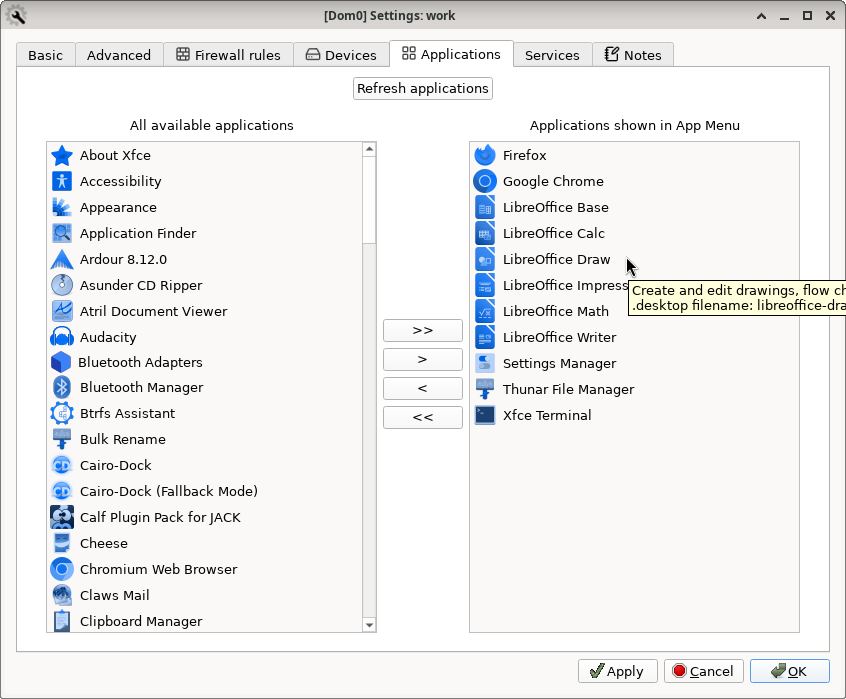
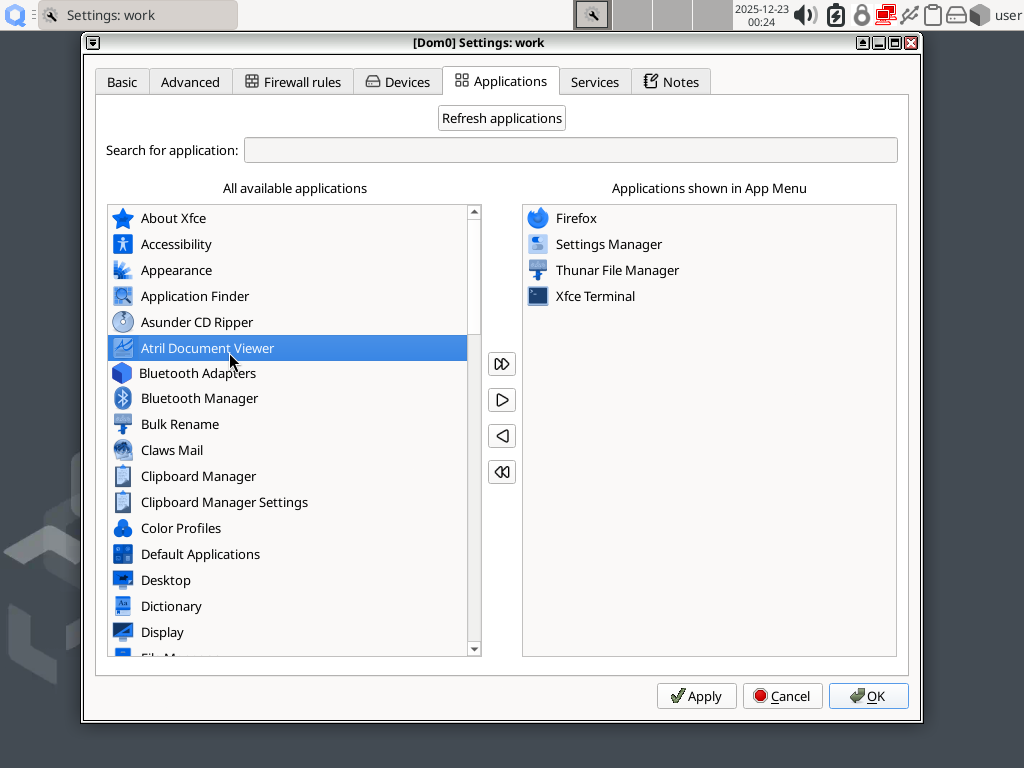
Expand content of R4.3 release notes
* Mention that Template manager GUI has been improved
* Mention the search bar of "Application" tab in qube Settings
* Fix list indentation
* Fix link to QubesOS/qubes-issues#6776 (thanks to @alimirjamali)
* All images are now clickable
* Add or update screenshots to the latest 4.3 version. This allows
  comparison between 4.2 & 4.3 too.
* Add some links to new features or QWT
* Use some `:program:` markup

Source of screenshots:

* Qube Manager:
  * https://openqa.qubes-os.org/tests/163357#step/qubesmanager_manager/11
  * https://openqa.qubes-os.org/tests/162956#step/qubesmanager_manager/11
* Qube settings / Application tab:
  * https://openqa.qubes-os.org/tests/163356#step/simple_gui_apps/9
  * https://openqa.qubes-os.org/tests/162946#step/simple_gui_apps/9

diff --git a/developer/releases/4_3/release-notes.rst b/developer/releases/4_3/release-notes.rst
@@ -28,15 +28,19 @@ Major features and improvements since Qubes 4.2
   `#9918 <https://github.com/QubesOS/qubes-issues/issues/9918>`__ &
   `#10026 <https://github.com/QubesOS/qubes-issues/issues/10026>`__).
 
+  **See:** :ref:`preloaded-disposables`
+
 - Device “self-identity oriented” assignment (a.k.a New Devices API)
   (`#9325 <https://github.com/QubesOS/qubes-issues/issues/9325>`__).
 
-- QWT (Qubes Windows Tools) reintroduction with improved features
+  **See:** :option:`core-admin-client:qvm-device --assignments`, ``qvm-device assign`` and ``qvm-device unassign``
+
+- :doc:`/user/templates/windows/qubes-windows-tools` reintroduction with improved features
   (`#1861 <https://github.com/QubesOS/qubes-issues/issues/1861>`__).
 
-|Screenshot of QWT, Welcome page|
+  |Screenshot of QWT, Welcome page|
 
-|Screenshot of QWT, Windows 11|
+  |Screenshot of QWT, Windows 11|
 
 UI/UX
 -----
@@ -46,28 +50,48 @@ UI/UX
   Qubes Devices widget is completely redesigned.
   (`#8537 <https://github.com/QubesOS/qubes-issues/issues/8537>`__).
 
-|Screenshot of Device UX assignments|
+  |Screenshot of Device UX assignments|
 
-|Screenshot of Device UX deny attachment|
+  |Screenshot of Device UX deny attachment|
 
-|Screenshot of Device UX edit assignment|
+  |Screenshot of Device UX edit assignment|
 
-|Screenshot of Device UX required devices|
+  |Screenshot of Device UX required devices|
 
-|Screenshot of Device UX Qubes Devices widget|
+  |Screenshot of Device UX Qubes Devices widget|
 
-- New and improved flat icons for GUI tools
-  (`#5657 <https://github.com/QubesOS/qubes-issues/issues/5657>`__).
+- New and improved flat icons for GUI tools (`#5657 <https://github.com/QubesOS/qubes-issues/issues/5657>`__).
 
-|Screenshot of Qube Manager|
+   .. list-table::
+      :widths: 10 10
+      :align: center
+      :header-rows: 1
+
+      * - 4.3
+        - 4.2
+      * - |Screenshot of Qube Manager in 4.3|
+        - |Screenshot of Qube Manager in 4.2|
 
 - The far left icons from the Qube Manager are removed
   (`#9776 <https://github.com/QubesOS/qubes-issues/issues/9776>`__).
 
-- Application icons are available in VM Settings
-  (`#9829 <https://github.com/QubesOS/qubes-issues/issues/9829>`__).
+- Improved :program:`Qubes Template Manager` graphical interface
 
-|Screenshot of Qube Settings Applications|
+- In the :program:`Settings` of a qube:
+
+  - the :guilabel:`Application` tab now provides a search bar.
+
+  - and Application icons are displayed (`#9829 <https://github.com/QubesOS/qubes-issues/issues/9829>`__).
+
+  .. list-table::
+     :widths: 10 10
+     :align: center
+     :header-rows: 1
+
+     * - 4.3
+       - 4.2
+     * - |Screenshot of Qube Settings Applications in 4.3|
+       - |Screenshot of Qube Settings Applications in 4.2|
 
 - Option to add Qubes video Companion to AppMenu
   (`#9761 <https://github.com/QubesOS/qubes-issues/issues/9761>`__).
@@ -81,8 +105,9 @@ UI/UX
 - Centralized Tray Notifications
   (`#889 <https://github.com/QubesOS/qubes-issues/issues/889>`__).
 
-- Option to launch root terminal or console terminal from Qubes Domains widget
-  (`#9788 <https://github.com/QubesOS/qubes-issues/issues/9788>`__)
+- Options to launch root terminal or `console terminal <https://dev.qubes-os.org/projects/core-admin-client/en/latest/manpages/qvm-features.html#expert-mode>`__ from :program:`Qubes Domains widget` (`#9788 <https://github.com/QubesOS/qubes-issues/issues/9788>`__).
+
+  Holding the shift key changes the :guilabel:`Run Terminal` command into a :guilabel:`Run Root Terminal` action.
 
 - Option to open Global Config at a selected section for user
   convenience
@@ -158,14 +183,14 @@ Security features
 - Preventing unsafe practice of 3rd party template installation with rpm/dnf
   (`#9943 <https://github.com/QubesOS/qubes-issues/issues/9943>`__).
 
-- Ability to prohibit start of specific qubes
+- Ability to `prohibit start <https://dev.qubes-os.org/projects/core-admin-client/en/latest/manpages/qvm-features.html#prohibit-start>`__ of specific qubes
   (`#9622 <https://github.com/QubesOS/qubes-issues/issues/9622>`__).
 
 - UUID support for qubes and support for addressing them by UUID in policies
   (`#8862 <https://github.com/QubesOS/qubes-issues/issues/8862>`__ &
   `#8510 <https://github.com/QubesOS/qubes-issues/issues/8510>`__).
 
-- Custom persist feature to avoid unwanted data to persist as much as possible
+- `Custom persist feature <https://dev.qubes-os.org/projects/core-admin-client/en/latest/manpages/qvm-features.html#custom-persist>`__ to avoid unwanted data to persist as much as possible
   (`#1006 <https://github.com/QubesOS/qubes-issues/issues/1006>`__).
 
 Anonymity improvements
@@ -247,13 +272,12 @@ Other
   comments, remarks, reminders, etc.)
   (`#899 <https://github.com/QubesOS/qubes-issues/issues/899>`__).
 
-|Screenshot of Qube Settings Notes|
+  |Screenshot of Qube Settings Notes|
 
 - Automatically clean up `QubesIncoming` directory if empty
   (`#8307 <https://github.com/QubesOS/qubes-issues/issues/8307>`__).
 
-- ``vm-config.*`` features to pass external configuration to inside the qube
-  (`#9837 <https://github.com/QubesOS/qubes-issues/issues/9837>`__).
+- `vm-config.* <https://dev.qubes-os.org/projects/core-admin-client/en/latest/manpages/qvm-features.html#vm-config>`__ features to pass external configuration to inside the qube (`#9837 <https://github.com/QubesOS/qubes-issues/issues/9837>`__).
 
 - Admin API for reading/writing denied device-interface list
   (`#9674 <https://github.com/QubesOS/qubes-issues/issues/9674>`__).
@@ -264,11 +288,9 @@ Other
 Dropped or replaced features
 ----------------------------
 
-- Default screen locker is changed from ``XScreenSaver`` to
-  ``xfce4-screensaver``
+- Default screen locker is changed from :program:`XScreenSaver` to :program:`xfce4-screensaver`
 
-- ``Create Qubes VM`` is retired in favor of the improved ``Create New Qube``
-  (`#6561 <https://github.com/QubesOS/qubes-issues/issues/6561>`__).
+- :program:`Create Qubes VM` is retired in favor of the improved :program:`Create New Qube` (`#6561 <https://github.com/QubesOS/qubes-issues/issues/6561>`__).
 
 - Windows 7 support is dropped from QWT.
 
@@ -314,31 +336,49 @@ Please see :doc:`how to upgrade to Qubes 4.3 </user/downloading-installing-upgra
 
 .. |Screenshot of QWT, Welcome page| image:: /attachment/doc/4-3_qwt-hi.png
    :alt: Windows 11 welcome page after installation in an HVM
+   :width: 100%
 
 .. |Screenshot of QWT, Windows 11| image:: /attachment/doc/4-3_qwt-win11.png
    :alt: Windows 11 within an HVM qube showing file explorer
+   :width: 100%
 
 .. |Screenshot of Device UX assignments| image:: /attachment/doc/4-3_device-ux-assignments.png
    :alt: Device Assignments page in Global Config
+   :width: 100%
 
 .. |Screenshot of Device UX deny attachment| image:: /attachment/doc/4-3_device-ux-deny-attachment.png
    :alt: Deny device attachment config in Global Config
+   :width: 100%
 
 .. |Screenshot of Device UX edit assignment| image:: /attachment/doc/4-3_device-ux-edit-assignment.png
    :alt: Editing device assignment for a network interface in Global Config
+   :width: 100%
 
 .. |Screenshot of Device UX required devices| image:: /attachment/doc/4-3_device-ux-required-device.png
    :alt: Editing a required device in Global Config
+   :width: 100%
 
 .. |Screenshot of Device UX Qubes Devices widget| image:: /attachment/doc/4-3_qui-devices.png
    :alt: Redesigned Qubes Devices widget
+   :width: 100%
 
-.. |Screenshot of Qube Manager| image:: /attachment/doc/4-3_manager.png
-   :alt: Qube Manager with improved flat icons
+.. |Screenshot of Qube Manager in 4.3| image:: /attachment/doc/4-3_manager.png
+   :alt: Qube Manager with improved flat icons in 4.3
+   :width: 100%
 
-.. |Screenshot of Qube Settings Applications| image:: /attachment/doc/4-3_vmsettings-applications.png
-   :alt: Qube settings showing icons of Apps
+.. |Screenshot of Qube Manager in 4.2| image:: /attachment/doc/4-2_manager.png
+   :alt: Qube Manager with improved flat icons in 4.2
+   :width: 100%
+
+.. |Screenshot of Qube Settings Applications in 4.3| image:: /attachment/doc/4-3_vmsettings-applications.png
+   :alt: Qube settings showing icons of Apps in 4.3
+   :width: 100%
+
+.. |Screenshot of Qube Settings Applications in 4.2| image:: /attachment/doc/4-2_vmsettings-applications.png
+   :alt: Qube settings showing icons of Apps in 4.2
+   :width: 100%
 
 .. |Screenshot of Qube Settings Notes| image:: /attachment/doc/4-3_notes.png
    :alt: Qube settings showing qube notes
+   :width: 100%
 

diff --git a/user/how-to-guides/how-to-use-disposables.rst b/user/how-to-guides/how-to-use-disposables.rst
@@ -159,6 +159,8 @@ The same can be done from the command line, although more difficult:
       user@dom0:~$ qvm-device <DEVICE_CLASS> detach <ATTACH_OPTIONS> -- "$disp"
       user@dom0:~$ qvm-kill -- "$disp"
 
+.. _preloaded-disposables:
+
 Retrieve unnamed disposables faster (preloaded disposables)
 -----------------------------------------------------------
 
